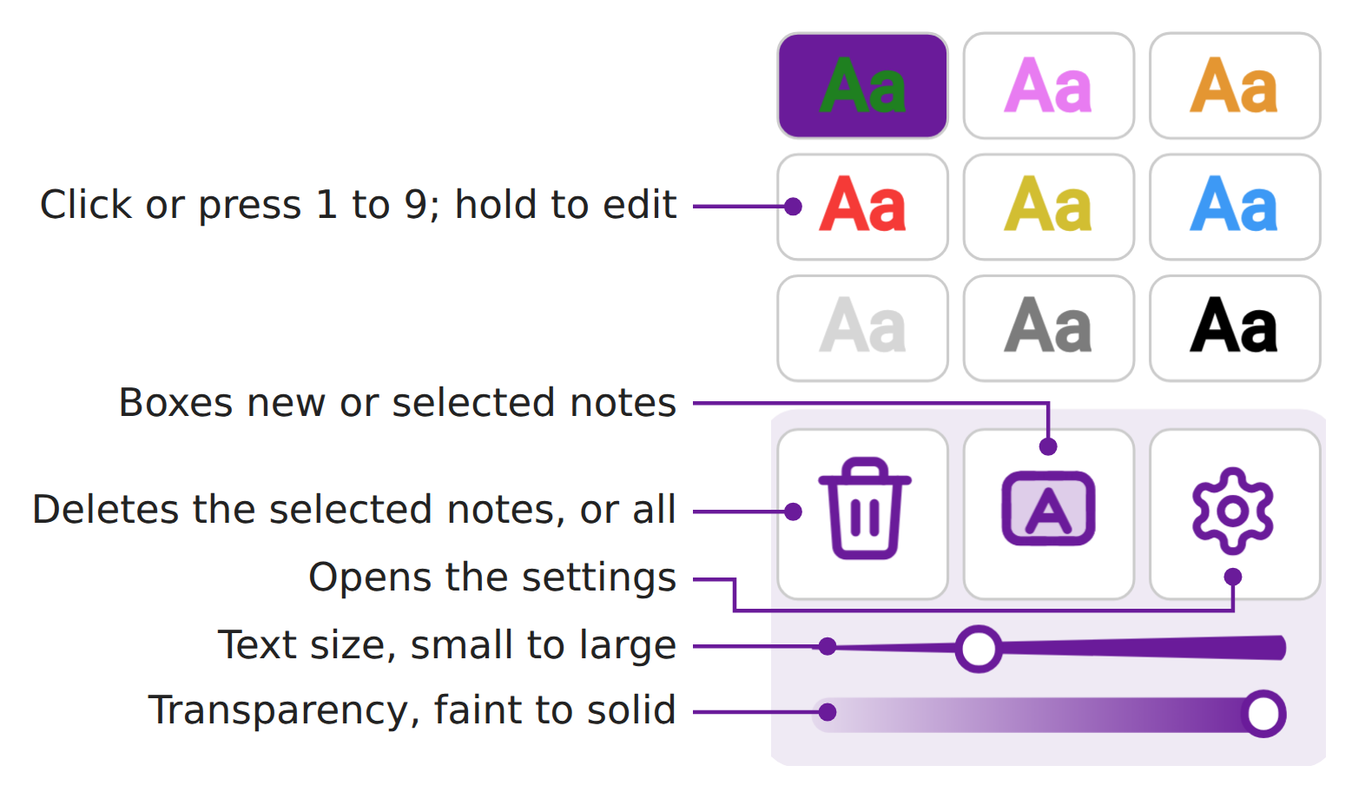
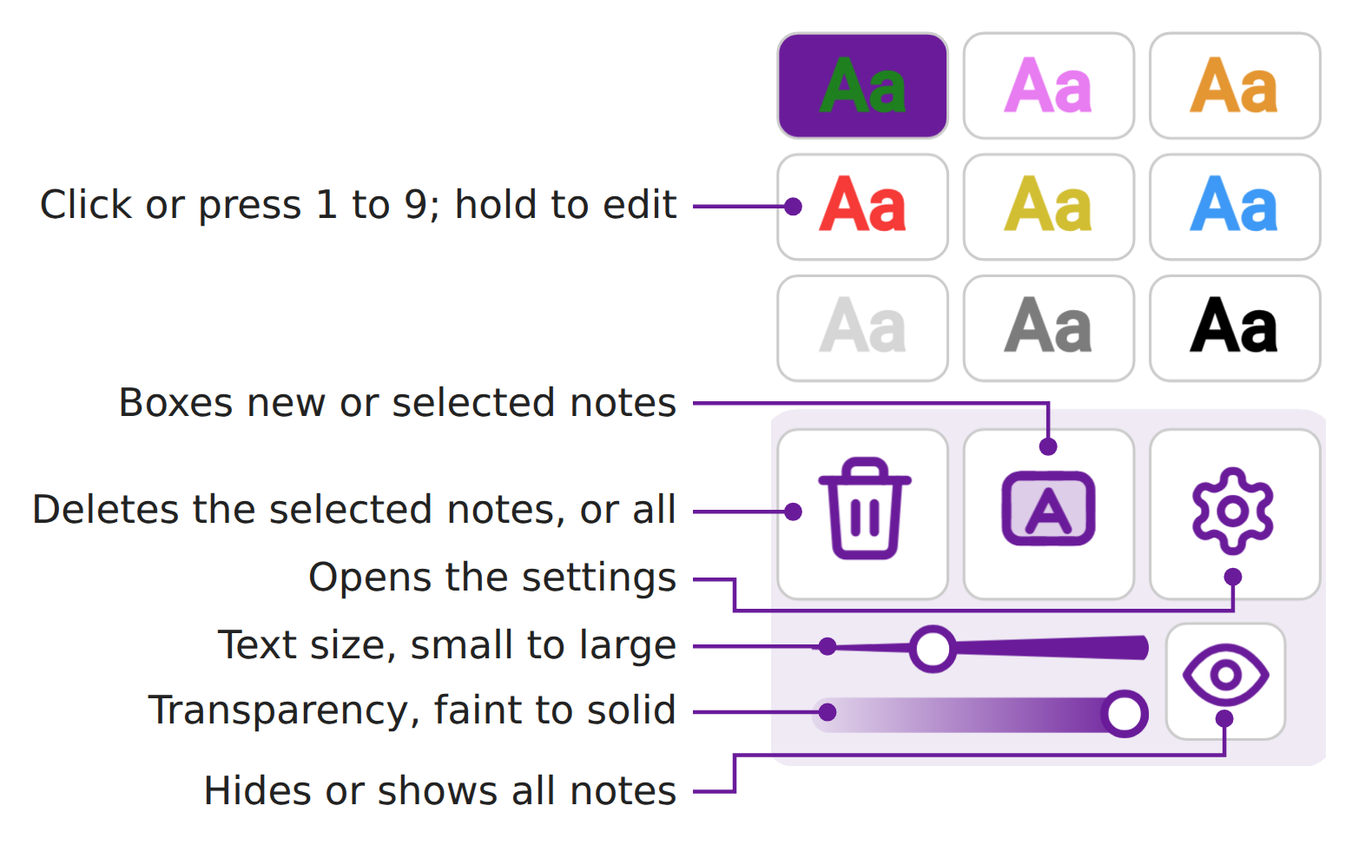
Text Anywhere: a show/hide all notes eye beside the sliders (#637) (#670)
* WIP hide all notes

* Text Anywhere: Hide all notes eye beside the sliders

An eye button at the right end of the sliders block hides every note (a closed eye
while hidden), ends the selection, and is undone by placing a note or an Undo that
brings notes back. Not saved, not an undo step.

Closes #637

* Hide all notes: review fixes (press rule shared through lib/panel.js, Clear all shows notes first, figure size, layout and puzzle-change tests)

Closes #637

* Hide all notes: layout test waits for the resize to settle

Closes #637

Changed region(s): [[0.0308, 0.0307, 0.9865, 0.9518]]

diff --git a/draw-tool.user.js b/draw-tool.user.js
@@ -1,7 +1,7 @@
 // ==UserScript==
 // @name         SudokuPad Text Anywhere
 // @namespace    https://github.com/caneff/sudokupad-scripts
-// @version      0.44.1
+// @version      0.44.2
 // @description  Adds a Text Anywhere tool for typed notes on the board or beside it, such as cage sums, in colors of its own. Each puzzle keeps its own notes.
 // @match        https://sudokupad.app/*
 // @match        https://*.sudokupad.app/*
@@ -16,7 +16,7 @@
 (function () {
   'use strict'
 
-  const VERSION = '0.44.1'
+  const VERSION = '0.44.2'
   const TOOL_NAME = 'draw'
   const LAYER_ID = 'draw-tool-layer'
   const DIALOG_BLUR_PX = 8
@@ -270,6 +270,9 @@
   const TRAY_CLASS = 'draw-tool-tray'
   const SLIDERS_CLASS = 'draw-tool-sliders'
   const SLIDER_ROW_CLASS = 'draw-tool-slider'
+  const SLIDER_ROWS_CLASS = 'draw-tool-slider-rows'
+  const HIDE_ALL_CLASS = 'draw-tool-hide-all'
+  const HIDDEN_CLASS = 'draw-tool-hidden'
   const SIZE_SLIDER = 'draw-tool-size'
   const OPACITY_SLIDER = 'draw-tool-opacity'
   const SIZE_LABEL = 'Size'
@@ -2174,10 +2177,11 @@
 
   // The panel's rules, as a list of CSS rules. `panel` is the keypad's selector and `colorButton` the selector of a color button under it; `controlButtons` is the
   // selector list of the three control buttons; `tray`, `sliders` and `sliderRow` are class names; `wedgeSlider` and `fadeSlider` are the ids of the slider drawn as a wedge
-  // (widening to the right) and the one drawn as a fade (faint to solid); a panel with no fade slider leaves `fadeSlider` out.
-  function panelCss ({ panel, colorButton, controlButtons, tray, sliders, sliderRow, wedgeSlider, fadeSlider }) {
+  // (widening to the right) and the one drawn as a fade (faint to solid); a panel with no fade slider leaves `fadeSlider` out. `pressButtons`, when given, is the selector of buttons
+  // that are not placed by the grid but press like the others.
+  function panelCss ({ panel, colorButton, controlButtons, pressButtons, tray, sliders, sliderRow, wedgeSlider, fadeSlider }) {
     const rows = [[1, 2, 3, COLOR_ROWS], [7, 8, 9, 1]]
-    const pressable = `${panel} ${colorButton}, ${controlButtons}`
+    const pressable = [`${panel} ${colorButton}`, controlButtons, ...(pressButtons ? [pressButtons] : [])].join(', ')
     const pressed = `:is(${pressable}):active`
     return [
       `${panel} { display: grid !important; grid-template-columns: repeat(${PANEL_COLUMNS}, ${PANEL_CELL_REM}rem); grid-template-rows: repeat(${COLOR_ROWS}, ${COLOR_CELL_REM}rem) ${rem(CONTROLS_GAP_REM + PANEL_CELL_REM)}rem 1fr; height: ${PANEL_HEIGHT_REM}rem !important; padding: 0 !important; box-sizing: border-box; justify-items: center; align-items: center; position: relative; }`,
@@ -2214,9 +2218,14 @@
   /* eslint-enable no-unused-vars */
   // </lib:panel>
   const COLOR_LABEL_REM = 1.7
+  // The eye is a square that fills the sliders block's height, with its icon a little smaller.
+  const HIDE_BUTTON_REM = 2.8
+  const HIDE_ICON_REM = 2.2
   // The column of each control in its row: Clear all, the Background button and the settings gear.
   const CONTROL_COLUMNS = { [CLEAR_CLASS]: 1, [BACKGROUND_CLASS]: 2, [SETTINGS_CLASS]: 3 }
   const PANEL = '.tool-draw .controls-input'
+  // Under the panel's own button rule, which sets a color and background on every button in it.
+  const HIDE_ALL = `${PANEL} button.${HIDE_ALL_CLASS}`
   const controlButtons = Object.keys(CONTROL_COLUMNS).map((name) => `${PANEL} button.${name}`).join(', ')
   // Each color button shows "Aa" in its draw color, so a recolor follows.
   const hoverShare = (percent) => `color-mix(in srgb, ${PANEL_COLOR} min(100%, calc(${percent}% / var(${NOTE_OPACITY_VAR}))), transparent)`
@@ -2224,7 +2233,7 @@
   // A closed note that is not selected, under Text Anywhere: the one that shows a hover outline.
   const IDLE_NOTE = `.${ACTIVE_CLASS} .${TEXT_CLASS}:not(.${TEXT_BOX_CLASS}, .${SELECTED_CLASS})`
   const PANEL_CSS = [
-    ...panelCss({ panel: PANEL, colorButton: 'button.digit', controlButtons, tray: TRAY_CLASS, sliders: SLIDERS_CLASS, sliderRow: SLIDER_ROW_CLASS, wedgeSlider: SIZE_SLIDER, fadeSlider: OPACITY_SLIDER }),
+    ...panelCss({ panel: PANEL, colorButton: 'button.digit', controlButtons, pressButtons: HIDE_ALL, tray: TRAY_CLASS, sliders: SLIDERS_CLASS, sliderRow: SLIDER_ROW_CLASS, wedgeSlider: SIZE_SLIDER, fadeSlider: OPACITY_SLIDER }),
     `${PANEL} button.digit { text-indent: -999em; overflow: hidden; color: transparent; }`,
     `${PANEL} button.digit:not(.current) { background-color: var(--body-bg); }`,
     `${PANEL} button.digit::after { content: "Aa"; position: absolute; inset: 0; display: flex; align-items: center; justify-content: center; text-indent: 0; font-size: ${COLOR_LABEL_REM}rem; font-weight: 600; line-height: 1; }`,
@@ -2232,8 +2241,15 @@
     ...Object.entries(CONTROL_COLUMNS).map(([name, column]) => `${PANEL} button.${name} { grid-column: ${column}; }`),
     `:is(.${CLEAR_CLASS}, .${SETTINGS_CLASS}, .${BACKGROUND_CLASS}) svg { width: 2.6rem; height: 2.6rem; }`,
     // SudokuPad's CSS fills every 'svg path' and the paths in a tool button's icon, which would turn the icons' lines into blobs, the tool button's note into a solid square.
-    `:is(.${CLEAR_CLASS}, .${SETTINGS_CLASS}, #control-${TOOL_NAME}) :is(path, circle, rect, ellipse), .${BACKGROUND_CLASS} :is(path, circle, rect, ellipse):not(.${BACKGROUND_FILL_CLASS}) { fill: none !important; }`,
-    `.${BACKGROUND_CLASS}[aria-pressed="true"] { background-color: ${TRAY_COLOR}; outline: 2px solid ${PANEL_COLOR}; }`,
+    `:is(.${CLEAR_CLASS}, .${SETTINGS_CLASS}, #control-${TOOL_NAME}, ${HIDE_ALL}) :is(path, circle, rect, ellipse), .${BACKGROUND_CLASS} :is(path, circle, rect, ellipse):not(.${BACKGROUND_FILL_CLASS}) { fill: none !important; }`,
+    `:is(.${BACKGROUND_CLASS}, ${HIDE_ALL})[aria-pressed="true"] { background-color: ${TRAY_COLOR}; outline: 2px solid ${PANEL_COLOR}; }`,
+    // The eye sits at the right end of the sliders block, which is a row of the two slider rows and it, and presses like the panel's other buttons.
+    `.${SLIDERS_CLASS} { flex-direction: row; align-items: center; gap: 0.4rem; }`,
+    `.${SLIDER_ROWS_CLASS} { flex: 1; min-width: 0; align-self: stretch; display: flex; flex-direction: column; justify-content: space-evenly; }`,
+    `${HIDE_ALL} { flex: none; display: flex; align-items: center; justify-content: center; width: ${HIDE_BUTTON_REM}rem; height: ${HIDE_BUTTON_REM}rem; min-height: 0; margin: 0; padding: 0; background-color: var(--body-bg); color: ${PANEL_COLOR}; }`,
+    `${HIDE_ALL} svg { width: ${HIDE_ICON_REM}rem; height: ${HIDE_ICON_REM}rem; }`,
+    // Hidden notes keep their layout, so they measure and come back in place; a hidden element takes no pointer, so none can be hit.
+    `#${LAYER_ID}.${HIDDEN_CLASS} { visibility: hidden; }`,
     // Some selected notes have a box and some do not: a dashed ring, neither on nor off.
     `.${BACKGROUND_CLASS}[aria-pressed="mixed"] { outline: 2px dashed ${PANEL_COLOR}; }`,
     ...COLOR_NUMBERS.map((n) => `${PANEL} button[data-key="${n}"] { grid-row: ${Math.ceil(n / PANEL_COLUMNS)} / span 1; grid-column: ${(n - 1) % PANEL_COLUMNS + 1} / span 1; }`),
@@ -2292,6 +2308,11 @@
   // Clear all is a trash can.
   const CLEAR_LABEL = 'Clear all'
   const DELETE_SELECTED_LABEL = 'Delete the selected notes'
+  // Hide all notes is an eye, open while the notes show and shut (the lid closed, lashes down) while they are hidden.
+  const HIDE_LABEL = 'Hide all notes'
+  const SHOW_LABEL = 'Show all notes'
+  const EYE_OPEN_ICON = '<path d="M2 12s3.6-7 10-7 10 7 10 7-3.6 7-10 7S2 12 2 12z"/><circle cx="12" cy="12" r="3"/>'
+  const EYE_SHUT_ICON = '<path d="M2 9C6 17 18 17 22 9"/><path d="M4.3 12.1L3.2 14.5M8.5 14.5L7.8 17M15.5 14.5L16.2 17M19.7 12.1L20.8 14.5"/>'
   const CLEAR_ICON = '<path d="M3 6h18"/><path d="M19 6l-1 14a2 2 0 0 1-2 2H8a2 2 0 0 1-2-2L5 6"/><path d="M8 6V4a2 2 0 0 1 2-2h4a2 2 0 0 1 2 2v2"/><path d="M10 11v6M14 11v6"/>'
   let color = DEFAULT_COLOR
   let width = DEFAULT_WIDTH
@@ -2628,7 +2649,11 @@
     const clear = document.createElement('button')
     clear.className = CLEAR_CLASS
     clear.innerHTML = controlIcon(CLEAR_ICON)
-    clear.addEventListener('click', under(textTool, () => selected.length ? deleteSelected() : confirmClear()))
+    clear.addEventListener('click', under(textTool, () => {
+      setNotesHidden(false)
+      if (selected.length) deleteSelected()
+      else confirmClear()
+    }))
     const settings = document.createElement('button')
     settings.className = SETTINGS_CLASS
     settings.title = SETTINGS_LABEL
@@ -2639,14 +2664,21 @@
     backgroundButton.className = BACKGROUND_CLASS
     backgroundButton.innerHTML = controlIcon(BACKGROUND_ICON)
     backgroundButton.addEventListener('click', under(textTool, pressBackground))
+    const hideAll = document.createElement('button')
+    hideAll.className = HIDE_ALL_CLASS
+    hideAll.addEventListener('click', under(textTool, () => setNotesHidden(!notesHidden)))
+    const sliderRows = document.createElement('div')
+    sliderRows.className = SLIDER_ROWS_CLASS
+    sliderRows.append(sliderRow(SIZE_SLIDER, SIZE_LABEL, { min: MIN_WIDTH, max: MAX_WIDTH, step: WIDTH_STEP }, width), sliderRow(OPACITY_SLIDER, OPACITY_LABEL, { min: MIN_OPACITY, max: MAX_OPACITY, step: OPACITY_STEP }, opacity))
     const sliders = document.createElement('div')
     sliders.className = SLIDERS_CLASS
-    sliders.append(sliderRow(SIZE_SLIDER, SIZE_LABEL, { min: MIN_WIDTH, max: MAX_WIDTH, step: WIDTH_STEP }, width), sliderRow(OPACITY_SLIDER, OPACITY_LABEL, { min: MIN_OPACITY, max: MAX_OPACITY, step: OPACITY_STEP }, opacity))
+    sliders.append(sliderRows, hideAll)
     // Arrow keys on a slider end in a change.
     sliders.addEventListener('change', under(textTool, returnFocusToNote))
     sliders.addEventListener('input', under(textTool, (event) => slideLook(event.target)))
     panelParts = [tray, clear, backgroundButton, ...(settingsUi.off ? [] : [settings]), sliders]
     keypad().append(...panelParts)
+    showHideAllLook()
     showPanelValues()
   }
 
@@ -3072,6 +3104,30 @@
     note.classList.toggle(SCROLLS_CLASS, scrollRoom(note) > 1)
   }
 
+  // Whether the notes are hidden by the eye. Not saved, so a reload shows them, and not an undo step.
+  let notesHidden = false
+
+  function showHideAllLook () {
+    const button = document.querySelector(`.${HIDE_ALL_CLASS}`)
+    if (!button) return
+    const label = notesHidden ? SHOW_LABEL : HIDE_LABEL
+    button.title = label
+    button.setAttribute('aria-label', label)
+    button.setAttribute('aria-pressed', String(notesHidden))
+    button.innerHTML = controlIcon(notesHidden ? EYE_SHUT_ICON : EYE_OPEN_ICON)
+  }
+
+  // Hiding closes the open note and ends the selection, so nothing is left to act on unseen. A hidden note can be neither hit nor snapped to: no gesture can reach one.
+  function setNotesHidden (hide) {
+    if (hide === notesHidden) return
+    if (hide && editing) finishText()
+    notesHidden = hide
+    drawingLayer().classList.toggle(HIDDEN_CLASS, hide)
+    if (hide) select([])
+    else redraw()
+    showHideAllLook()
+  }
+
   // The note an event's target is in, or null; only while Text Anywhere is current is a note ever the target.
   const noteOf = (event) => event.target instanceof window.Element ? event.target.closest(`#${LAYER_ID} .${TEXT_CLASS}`) : null
 
@@ -3085,6 +3141,7 @@
 
   // The topmost drawn note whose screen box, grown by `margin` px, holds `point`, as its element, or null. The notes on the board are under the fixed ones.
   function noteAt (point, margin) {
+    if (notesHidden) return null
     const map = boardMap()
     const drawn = drawing.filter((item) => item.kind === TEXT_KIND && item[NOTE_ELEMENT]?.isConnected)
     const onTop = [...drawn.filter((item) => !item.fixed), ...drawn.filter((item) => item.fixed)]
@@ -3255,6 +3312,7 @@
 
   // The note is typed in place: `index` names the text to reopen, with the caret at screen point `point` (the end of its text with none), or -1 for a new one starting at `point`. Opening a note ends the selection.
   function openText (index, point) {
+    setNotesHidden(false)
     selected = []
     const map = boardMap()
     const item = index === -1 ? newNote(point, map) : { ...drawing[index] }
@@ -3577,7 +3635,7 @@
 
   function selectInRectangle (d, click) {
     const map = boardMap()
-    const touched = notesTouched(boardDrawing(map), map.toBoard(d.points[0]), map.toBoard(d.points[d.points.length - 1]))
+    const touched = notesHidden ? [] : notesTouched(boardDrawing(map), map.toBoard(d.points[0]), map.toBoard(d.points[d.points.length - 1]))
     if (touched.length === 0 && isSmallRectangle(d.points)) return click(d)
     select(d.shift ? [...selected, ...touched] : touched)
   }
@@ -3818,6 +3876,7 @@
   function showSavedDrawing () {
     cancelInput()
     drawing = []
+    setNotesHidden(false)
     savable = true
     loadedKey = currentPuzzleKey()
     forgetRestarted()
@@ -3880,6 +3939,7 @@
       return
     }
     if (notes.length === 0) return
+    setNotesHidden(false)
     cancelInput()
     const first = drawing.length
     drawing = drawing.concat(notes)
@@ -3943,6 +4003,7 @@
       const map = boardMap()
       const point = eventPoint(event)
       if (event.button === SECONDARY_BUTTON) {
+        if (notesHidden) return true
         const at = map.toBoard(point)
         erasing = { last: at, pending: [], erased: false }
         if (eraseAlong(at, at, map)) redraw()

diff --git a/site/draw-tool.html b/site/draw-tool.html
@@ -43,6 +43,7 @@
     <li><strong>Colors, size and transparency</strong> <p>Nine colors of its own (keys 1-9), and Size and Transparency sliders. The + and - keys make the selected notes, or the next note, one Size step bigger or smaller.</p></li>
     <li><strong>Select and move</strong> <p>Click a note or drag a box round several; drag to move, arrow keys nudge.</p></li>
     <li><strong>Key to switch on</strong> <p>Press <code>T</code> to pick the Text tool (not while you are typing in a note, a dialog or the Letter tool).</p></li>
+    <li><strong>Hide all notes</strong> <p>The eye beside the sliders hides every note to show the board, and shows them again. Placing a note shows them too, and a reload does.</p></li>
     <li><strong>Erase</strong> <p>Right-click a note, or press Delete.</p></li>
     <li><strong>Kept per puzzle</strong> <p>Notes survive a reload, for your last 50 puzzles.</p></li>
     <li><strong>Settings</strong> <p>Color presets, font (proportional or fixed width), halo, box color and border by sample; Copy and Paste to another browser.</p></li>
@@ -50,7 +51,7 @@
 
   <h2>The Text Anywhere panel</h2>
   <p class="prose">Pick the Text tool and its panel opens beside the puzzle.</p>
-  <div class="figure"><img src="https://raw.githubusercontent.com/caneff/sudokupad-scripts/main/docs/research/draw-tool/draw-tool-panel-annotated.png?v=cfa8970" alt="The Text Anywhere panel with each part labelled on its left. Color buttons: click or press 1 to 9, and hold to edit. Background: boxes new or selected notes. Clear all: deletes the selected notes, or all. Settings: opens the settings. Size: a slider for the text size, from small to large. Transparency: a slider from faint to solid." width="519" height="304"></div>
+  <div class="figure"><img src="https://raw.githubusercontent.com/caneff/sudokupad-scripts/main/docs/research/draw-tool/draw-tool-panel-annotated.png?v=6fb9089" alt="The Text Anywhere panel with each part labelled on its left. Color buttons: click or press 1 to 9, and hold to edit. Background: boxes new or selected notes. Clear all: deletes the selected notes, or all. Settings: opens the settings. Size: a slider for the text size, from small to large. Transparency: a slider from faint to solid. Eye: hides or shows all notes." width="519" height="332"></div>
 
   <h2>Good to know</h2>
   <ul class="notes">

diff --git a/test/site.test.js b/test/site.test.js
@@ -431,7 +431,7 @@ test(`${CBD} good to know gives the undo behavior, the Multi-color caveat and wh
 
 // Text Anywhere's entry and details page.
 const DRAW_SUMMARY = 'Adds a Text Anywhere tool for typed notes on the board or beside it, such as cage sums, in colors of its own. Each puzzle keeps its own notes.'
-const DRAW_LEAD_INS = ['Typed notes anywhere', 'Formatting', 'Long notes', 'Readable over digits', 'Colors, size and transparency', 'Select and move', 'Key to switch on', 'Erase', 'Kept per puzzle', 'Settings']
+const DRAW_LEAD_INS = ['Typed notes anywhere', 'Formatting', 'Long notes', 'Readable over digits', 'Colors, size and transparency', 'Select and move', 'Key to switch on', 'Hide all notes', 'Erase', 'Kept per puzzle', 'Settings']
 
 test(`${HOME} describes Text Anywhere in a short summary ending in a Details link`, () => {
   const m = read(HOME).match(/<h2>Text Anywhere<\/h2>\s*<p>([\s\S]*?)<\/p>/)
@@ -448,6 +448,7 @@ test(`${DRAW} lists what the script adds as a grid of short items, one per featu
     'Colors, size and transparency Nine colors of its own (keys 1-9), and Size and Transparency sliders. The + and - keys make the selected notes, or the next note, one Size step bigger or smaller.',
     'Select and move Click a note or drag a box round several; drag to move, arrow keys nudge.',
     'Key to switch on Press T to pick the Text tool (not while you are typing in a note, a dialog or the Letter tool).',
+    'Hide all notes The eye beside the sliders hides every note to show the board, and shows them again. Placing a note shows them too, and a reload does.',
     'Erase Right-click a note, or press Delete.',
     'Kept per puzzle Notes survive a reload, for your last 50 puzzles.',
     'Settings Color presets, font (proportional or fixed width), halo, box color and border by sample; Copy and Paste to another browser.'

diff --git a/lib/panel.js b/lib/panel.js
@@ -56,10 +56,11 @@ function sliderRules (sliders, sliderRow, wedgeSlider, fadeSlider) {
 
 // The panel's rules, as a list of CSS rules. `panel` is the keypad's selector and `colorButton` the selector of a color button under it; `controlButtons` is the
 // selector list of the three control buttons; `tray`, `sliders` and `sliderRow` are class names; `wedgeSlider` and `fadeSlider` are the ids of the slider drawn as a wedge
-// (widening to the right) and the one drawn as a fade (faint to solid); a panel with no fade slider leaves `fadeSlider` out.
-function panelCss ({ panel, colorButton, controlButtons, tray, sliders, sliderRow, wedgeSlider, fadeSlider }) {
+// (widening to the right) and the one drawn as a fade (faint to solid); a panel with no fade slider leaves `fadeSlider` out. `pressButtons`, when given, is the selector of buttons
+// that are not placed by the grid but press like the others.
+function panelCss ({ panel, colorButton, controlButtons, pressButtons, tray, sliders, sliderRow, wedgeSlider, fadeSlider }) {
   const rows = [[1, 2, 3, COLOR_ROWS], [7, 8, 9, 1]]
-  const pressable = `${panel} ${colorButton}, ${controlButtons}`
+  const pressable = [`${panel} ${colorButton}`, controlButtons, ...(pressButtons ? [pressButtons] : [])].join(', ')
   const pressed = `:is(${pressable}):active`
   return [
     `${panel} { display: grid !important; grid-template-columns: repeat(${PANEL_COLUMNS}, ${PANEL_CELL_REM}rem); grid-template-rows: repeat(${COLOR_ROWS}, ${COLOR_CELL_REM}rem) ${rem(CONTROLS_GAP_REM + PANEL_CELL_REM)}rem 1fr; height: ${PANEL_HEIGHT_REM}rem !important; padding: 0 !important; box-sizing: border-box; justify-items: center; align-items: center; position: relative; }`,

diff --git a/pen-tool-extras.user.js b/pen-tool-extras.user.js
@@ -2414,10 +2414,11 @@
 
   // The panel's rules, as a list of CSS rules. `panel` is the keypad's selector and `colorButton` the selector of a color button under it; `controlButtons` is the
   // selector list of the three control buttons; `tray`, `sliders` and `sliderRow` are class names; `wedgeSlider` and `fadeSlider` are the ids of the slider drawn as a wedge
-  // (widening to the right) and the one drawn as a fade (faint to solid); a panel with no fade slider leaves `fadeSlider` out.
-  function panelCss ({ panel, colorButton, controlButtons, tray, sliders, sliderRow, wedgeSlider, fadeSlider }) {
+  // (widening to the right) and the one drawn as a fade (faint to solid); a panel with no fade slider leaves `fadeSlider` out. `pressButtons`, when given, is the selector of buttons
+  // that are not placed by the grid but press like the others.
+  function panelCss ({ panel, colorButton, controlButtons, pressButtons, tray, sliders, sliderRow, wedgeSlider, fadeSlider }) {
     const rows = [[1, 2, 3, COLOR_ROWS], [7, 8, 9, 1]]
-    const pressable = `${panel} ${colorButton}, ${controlButtons}`
+    const pressable = [`${panel} ${colorButton}`, controlButtons, ...(pressButtons ? [pressButtons] : [])].join(', ')
     const pressed = `:is(${pressable}):active`
     return [
       `${panel} { display: grid !important; grid-template-columns: repeat(${PANEL_COLUMNS}, ${PANEL_CELL_REM}rem); grid-template-rows: repeat(${COLOR_ROWS}, ${COLOR_CELL_REM}rem) ${rem(CONTROLS_GAP_REM + PANEL_CELL_REM)}rem 1fr; height: ${PANEL_HEIGHT_REM}rem !important; padding: 0 !important; box-sizing: border-box; justify-items: center; align-items: center; position: relative; }`,

diff --git a/lib/panel.test.js b/lib/panel.test.js
@@ -130,6 +130,16 @@ test('releasing the pointer blurs a focused slider and no other element, in the 
   assert.equal(blurred, 1)
 })
 
+test('a button named as pressButtons presses like the controls, and a panel that names none has the same rules as before', () => {
+  const eye = '.tool-pen .controls-input button.eye'
+  const list = `.tool-pen .controls-input button[data-key], .tool-pen .controls-input button.mode, ${eye}`
+  const withEye = { ...PEN, pressButtons: eye }
+  assert.match(ruleOf(list, withEye), /transition: transform 120ms ease-out;/)
+  assert.match(ruleOf(`:is(${list}):active`, withEye), /transform: scale\(0\.97\);/)
+  assert.equal(css(withEye).includes(`${list} { transition: none; } :is(${list}):active { transform: none; }`), true)
+  assert.equal(css(PEN).includes('button.eye'), false)
+})
+
 test('a pressed color button or control shrinks to 0.97 over 120 ms, and the whole press motion is off under reduced motion', () => {
   const two = { ...PEN, controlButtons: '.tool-pen .controls-input button.mode, .tool-pen .controls-input button.page' }
   const list = '.tool-pen .controls-input button[data-key], .tool-pen .controls-input button.mode, .tool-pen .controls-input button.page'

diff --git a/GLOSSARY.md b/GLOSSARY.md
@@ -241,6 +241,7 @@
   line high, with diagonal resize cursors; a double-click on one removes the stored `box`, so the note goes back to auto size.
 - **Size slider** — Text Anywhere's first slider, under its controls row, drawn as the wedge (thin to thick) of the shared panel (`lib/panel.js`, as Pen Tool Extras' Thickness). It runs over widths 1 to 16 in steps of 0.5 (text size = 2 x width + 8, default width 6, size 20) and sets the next text's size, saved under `DrawTool_width` as the width and kept as it is, off any fixed list of sizes. It never changes a text already made, except the open note and the **selected** ones: while texts are selected it shows the first one's size and a move sets all of theirs, leaving the next text's alone. The + (also =) and - keys, and the keypad's, move it one step with the same effect while no note is open; inside an open note they type.
 - **Transparency slider** — Text Anywhere's second slider, under the **Size slider**, drawn as the fade (faint to solid), over the same range and steps as Pen Tool Extras' Opacity (20 to 100 percent in steps of 5, default 100). It sets a text's `opacity`, the next text's saved under `DrawTool_opacity`, by the same rules as the **Size slider**. The opacity is the note element's own `opacity`, so it fades the letters, the outline, the background box and its frame together; the selection outline and handles sit outside the note and stay solid.
+- **Hide all notes** — the eye button at the right end of Text Anywhere's sliders block (class `draw-tool-hide-all`), level with both sliders, which take the rest of the width. A click hides every note in the layer, pinned and fixed (`visibility: hidden` on the layer, so the notes keep their layout and no pointer reaches one), ends the selection, and shows a closed eye (`aria-pressed="true"`, title "Show all notes"); another click shows them. While hidden a note is not hit, hovered, selected by a rectangle, erased or snapped to. Placing a note, or the Undo that brings back the notes a Restart cleared, shows them again first; loading a puzzle does too. The state is a variable, never saved and never an undo step, so a reload shows the notes.
 - **Outline setting** — the settings dialog's Halo round the letters row, three sample buttons, None, Thin or Thick (the default), each a colored cell with one letter in the text color drawn with that reach of halo; the reach of every note's **halo** (0, 0.07 or 0.14 of its text size). It is global like the box color and the **frame**, applied on Save, saved under `DrawTool_outline` (the ids `none`, `thin`, `medium`; anything else reads as Thick) and carried by Copy and Paste settings. A note's own `outline` field, saved by an earlier version, is ignored and left as saved.
 - **Background** — the button between Clear all and the gear, on or off, and a setting for the NEXT text: a text made while it is on stores `bg: true` and is drawn with a rounded box behind it (the **background box color**'s), and one made while it is off has none; a saved text with no `bg` has none. The state is remembered under `DrawTool_background`. Pressing it never changes a text already made, except the one open in the text box and the **selected** ones: while texts are selected it shows theirs (neither on nor off when they differ: a dashed ring, `aria-pressed="mixed"`) and turns them all on, or all off when all have one.
 - **background box color** — the setting, in Text Anywhere's settings dialog (its Box color row), for the color of the box behind every note that has one: five sample buttons, each a short "A=B" note in the text color on that box, Page (the default, `--body-bg`), White, Yellow (`#fff4b0`), Tint (15% of each note's own color over the page color) or Own (a #rrggbb color from a picker shown under the row while Own is picked). Global: it recolors every boxed note, old and new, since a note stores only `bg: true`. Saved under `DrawTool_box` as the preset's id or the hex color; a value that is not one reads as Page. The **halo** stays the page color.
